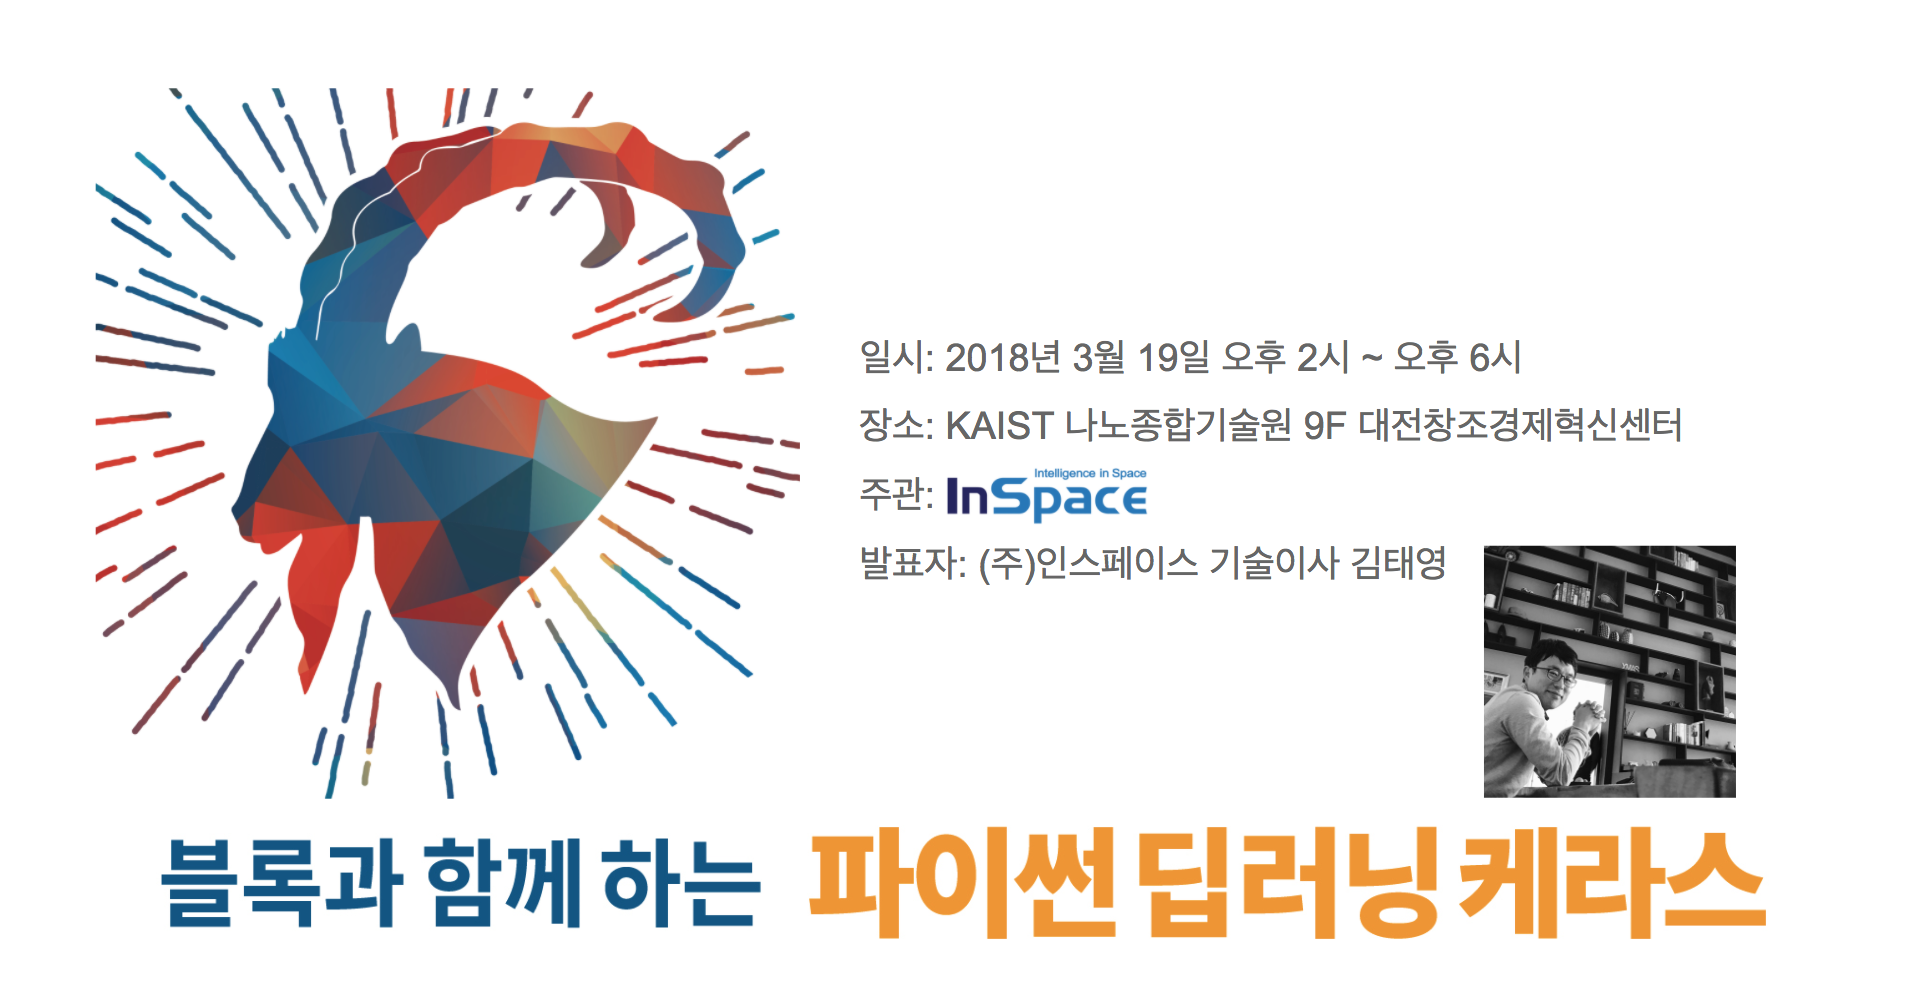
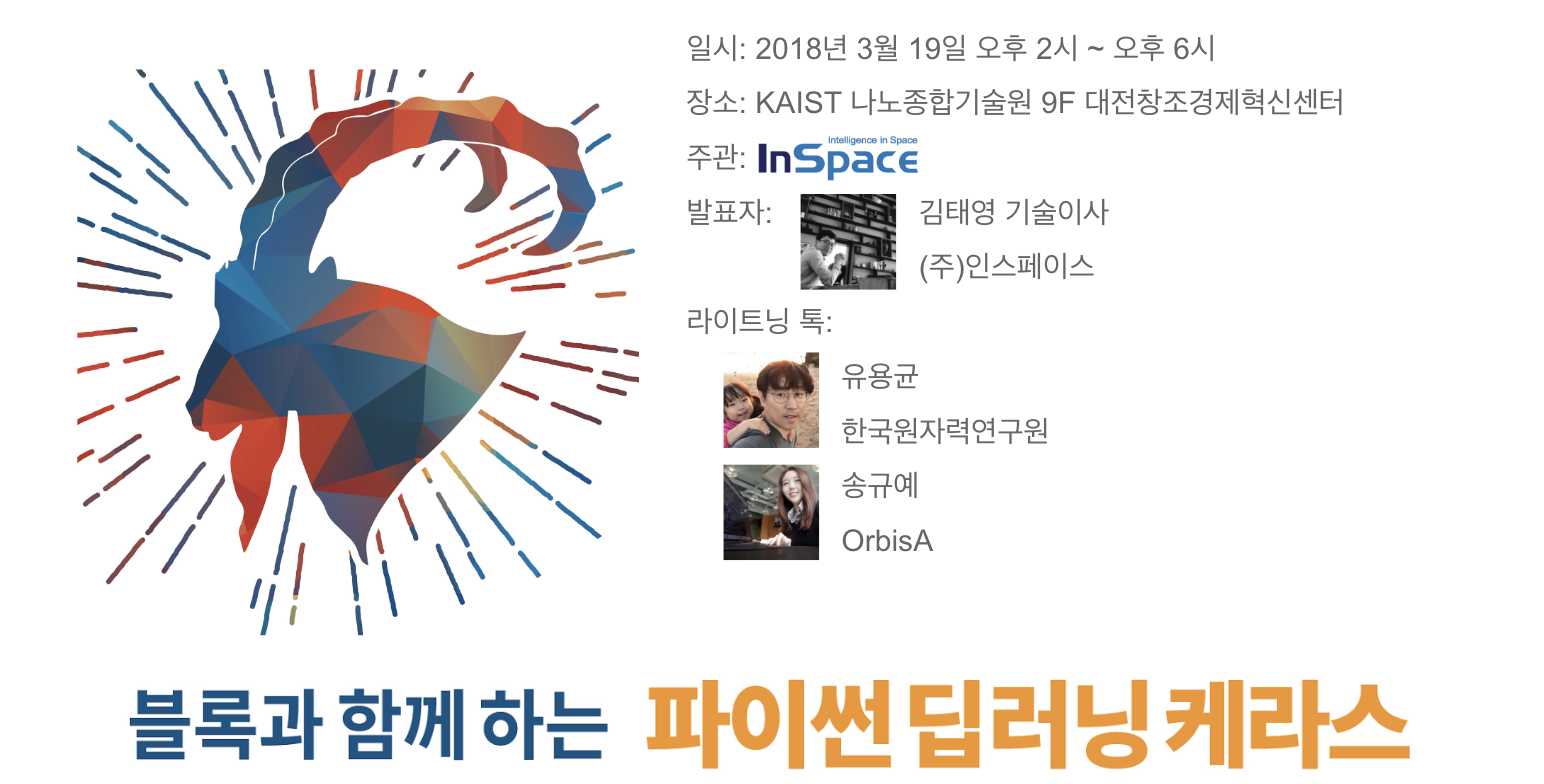
no message

diff --git a/_posts/2018-3-19-ISS_Python_Deep_Learning_Keras_with_Blocks.md b/_posts/2018-3-19-ISS_Python_Deep_Learning_Keras_with_Blocks.md
@@ -19,7 +19,7 @@ image: http://tykimos.github.io/warehouse/2018-3-19-ISS_Python_Deep_Learning_Ker
 |구분|소개|
 |-|-|
 |![img](http://tykimos.github.io/warehouse/2018-3-19-ISS_Python_Deep_Learning_Keras_with_Blocks_tykimos.jpg)|김태영, (주)인스페이스 (기초 강좌)<br><br>[블록과 함께하는 파이썬 딥러닝 케라스]<br><br>비전공자분들이 쉽게 딥러닝 모델을 개발할 수 있도록 케라스 라이브러리 소개와 블록 비유를 통해 다양한 모델을 살펴보겠습니다.|
-|![img](http://tykimos.github.io/warehouse/2018-3-19-ISS_Python_Deep_Learning_Keras_with_Blocks_yoyogo96.jpg)|유용균, 한국원자력연구원 (라이트닝 톡)<br><br>[딥러닝을 이용한 최적설계 및 시물레이션 소개]<br><br>딥러닝 기술은 영상인식, 자율주행 등의 흔히 알려진 분야 뿐만 아니라 유체해석 등 전산 해석와 최적설계을 분야에도 적용되고 있습니다. 이에 관련된 연구 사례와 진행 중인 연구내용에 대해서 소개 드리겠습니다.|
+|![img](http://tykimos.github.io/warehouse/2018-3-19-ISS_Python_Deep_Learning_Keras_with_Blocks_yoyogo96.jpg)|유용균, 한국원자력연구원 (라이트닝 톡)<br><br>[딥러닝을 이용한 최적설계 및 시뮬레이션 소개]<br><br>딥러닝 기술은 물리 화학 기계 등 광범위한 과학 분야에 적용되고 있습니다. 전산 시물레이션  및 최적설계 분야에 대한 적용 사례와 진행 중인 연구를 간단하게 소개드리겠습니다.|
 |![img](http://tykimos.github.io/warehouse/2018-3-19-ISS_Python_Deep_Learning_Keras_with_Blocks_ivyheart2.png)|송규예, OrbisAI (라이트닝 톡)<br><br>[딥러닝을 활용한 IHCI 측면에서의 감성분석]<br><br>딥러닝도 결국 인간을 위한 기술이므로, 딥러닝이 적용된 기계와 인간과의 상호작용 측면에 있어 화두가 되는 것이 '감성' 부분입니다. 딥러닝을 활용한 인간의 감성분석 연구사례와 이와 관련한 일을 하고 있는 저희 회사를 소개합니다.|
 
 ---
@@ -34,7 +34,7 @@ image: http://tykimos.github.io/warehouse/2018-3-19-ISS_Python_Deep_Learning_Ker
     * [태양에서 세포까지 극한알바] 여러 분야에서 케라스 기반 딥러닝 모델 사례를 살펴봅니다.
     * [케라스 코리아] 모두의 손에 딥러닝 툴을 쥐어지게 하자라는 케라스 비전을 공유하기 위한 그룹에 대해서 알아봅니다. 여러 분야에서 적용하고자 하는 노력에 대해서 알아봅니다.
 * 분야별 라이트닝 톡 (15:00~15:30)
-    * [딥러닝을 이용한 최적설계 및 시물레이션 소개] 유용균님, 한국원자력연구원
+    * [딥러닝을 이용한 최적설계 및 시뮬레이션 소개] 유용균님, 한국원자력연구원
     * [딥러닝을 활용한 IHCI 측면에서의 감성분석] 송규예님, OrbisAI
 * 2부 (15:30~16:20)
     * [레이어 개념잡기] 가장 기초적인 뉴런부터 다층퍼셉트론 신경망, 컨볼루션 신경망, 순환 신경망을 구성하고 있는 레이어에 대한 개념을 알아봅니다.
